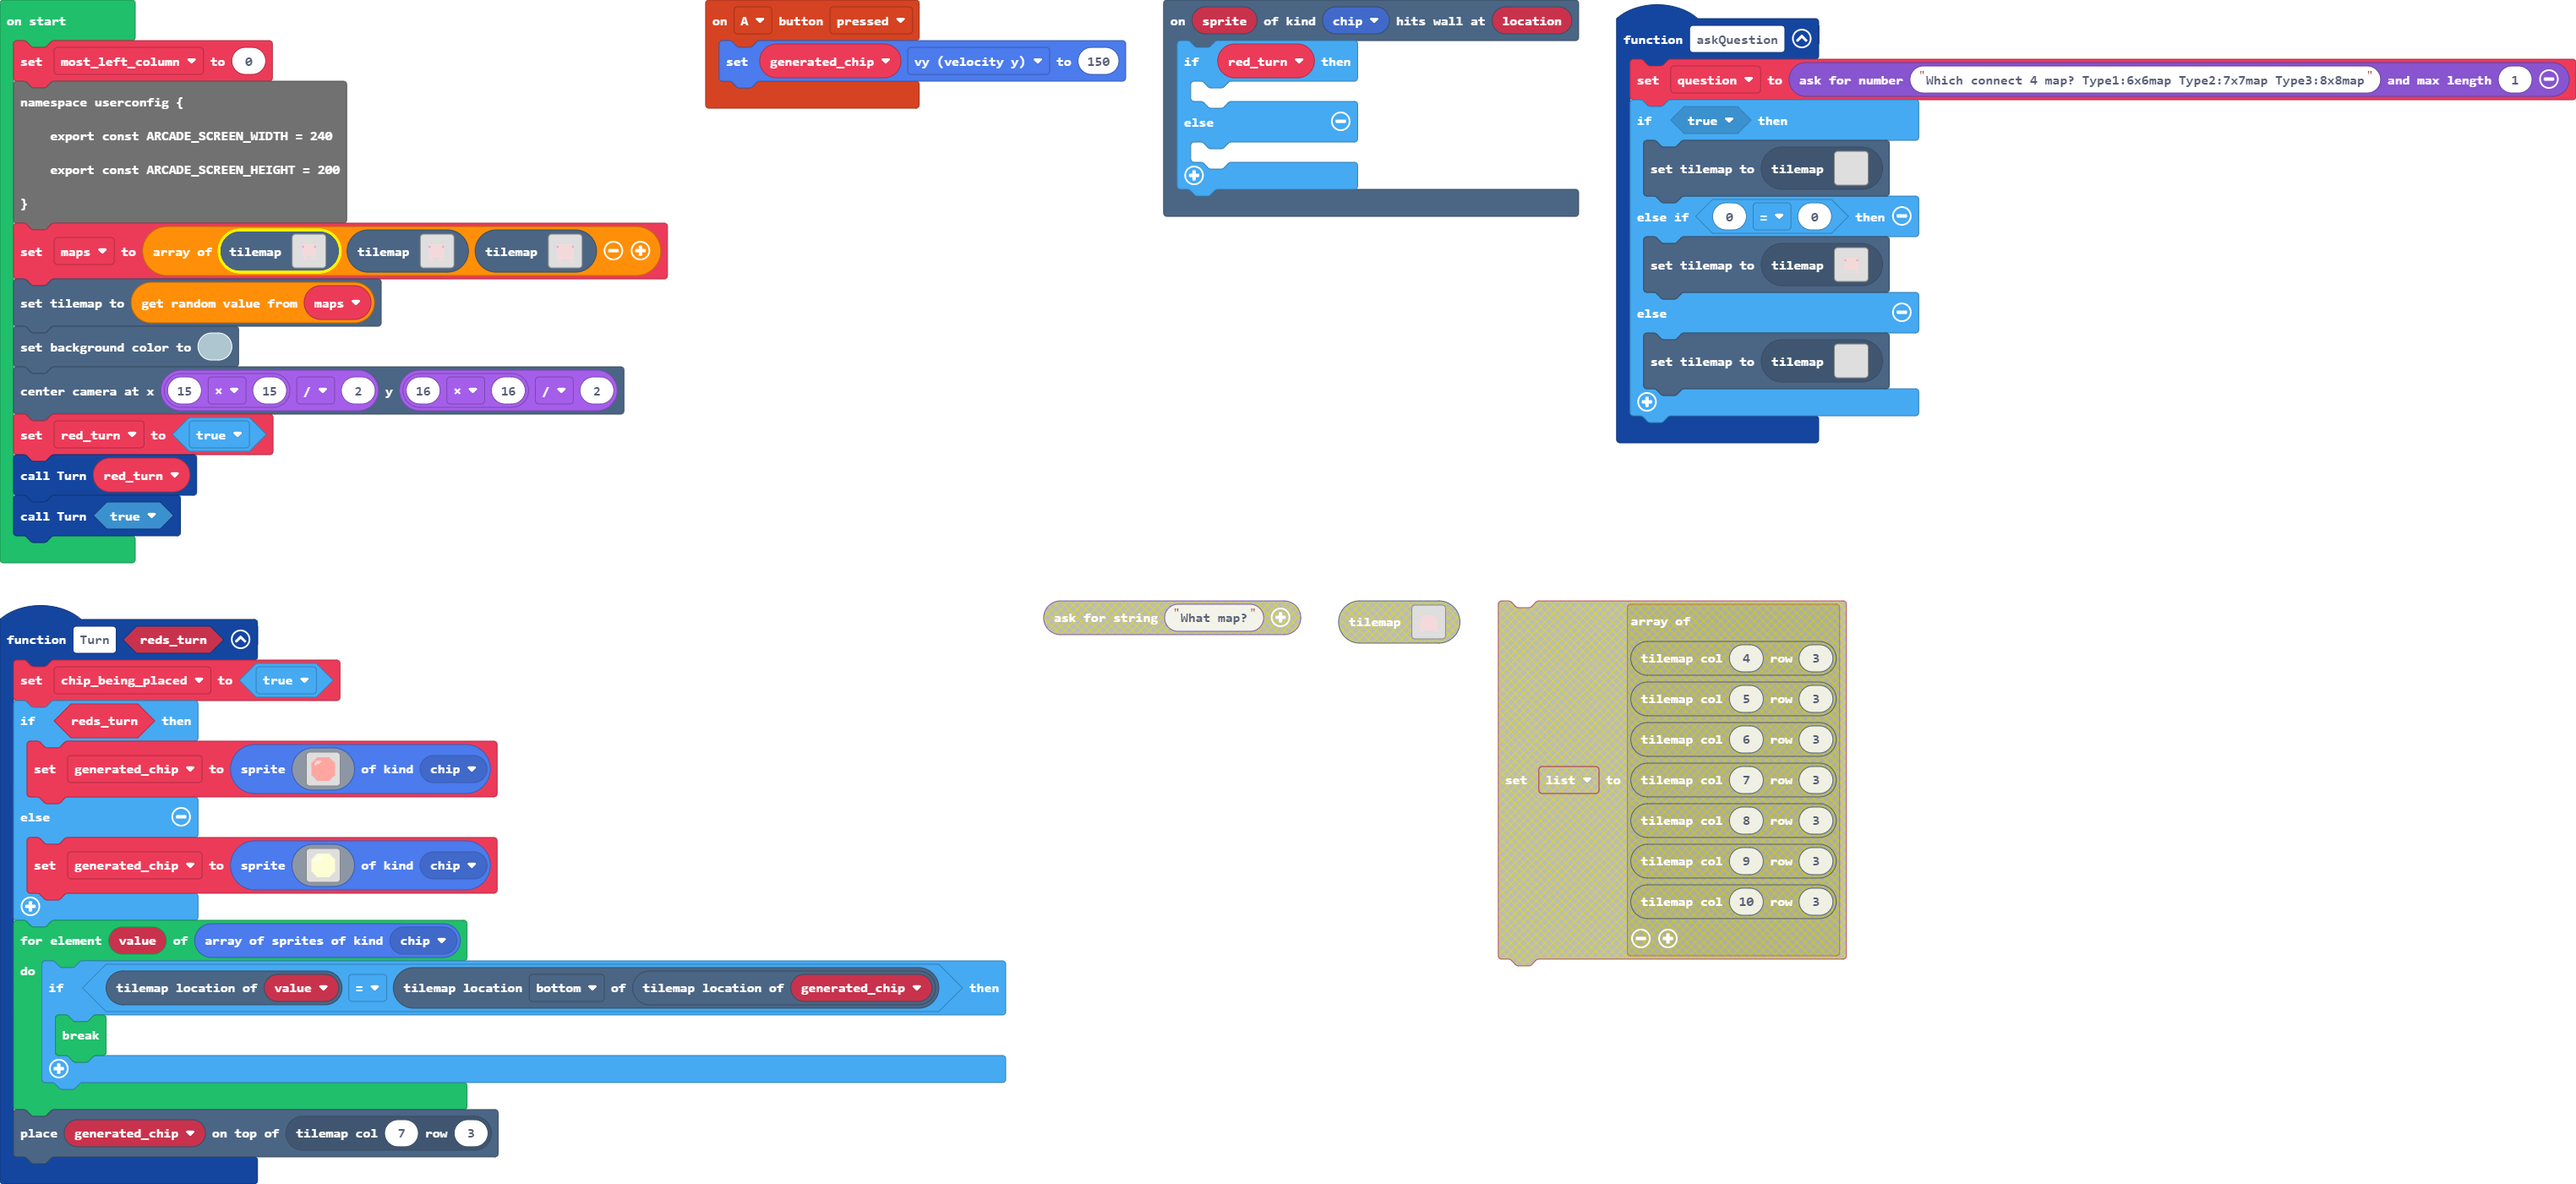
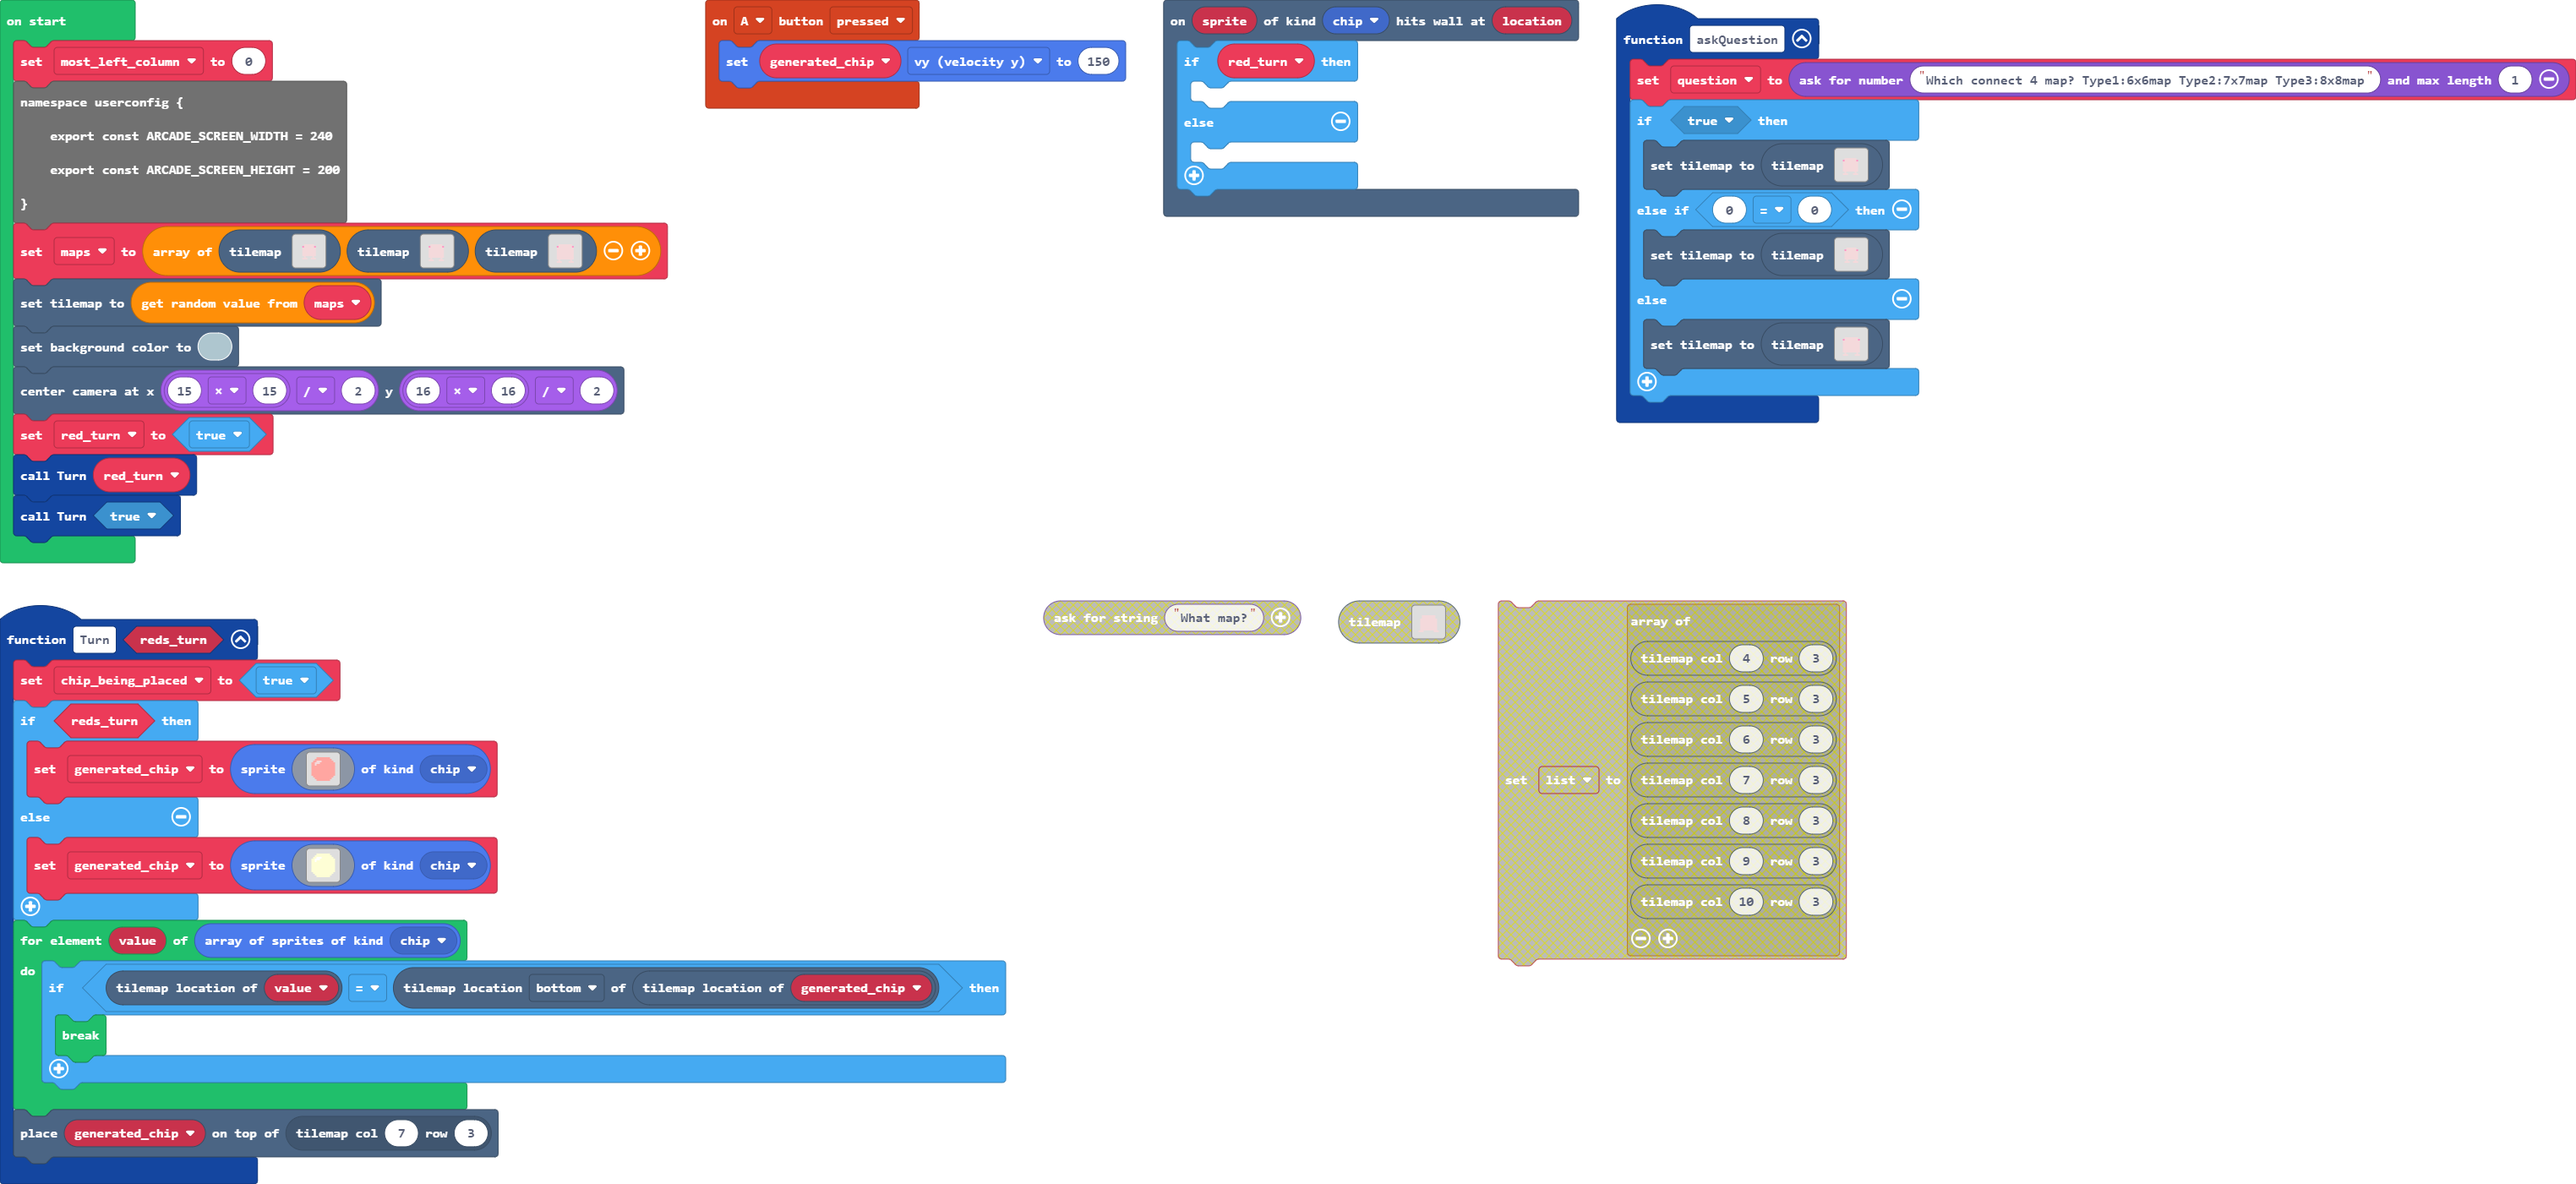
Update main.blocks, main.ts, tilemap.g.jres, tilemap.g.ts

Changed region(s): [[0.6234, 0.1228, 0.748, 0.399]]

diff --git a/tilemap.g.ts b/tilemap.g.ts
@@ -426,7 +426,45 @@ namespace myTiles {
 . . . . . . . . . . . . . . . . 
 . . . . . . . . . . . . . . . . 
 `, [myTiles.transparency16], TileScale.Sixteen);
-            case "level24":
+            case "6X6map":
+            case "level20":return tiles.createTilemap(hex`1000100000000000000000000000000000000000000000000000000000000000000000000000000000000000000000000000000000000000000000000000000000000000000000000001010101010100000000000000000003010101010101030000000000000000020101010101010200000000000000000201010101010102000000000000000002010101010101020000000000000000020101010101010200000000000000000202020202020202000000000000000000020000000002000000000000000000020202000002020200000000000000000000000000000000000000000000000000000000000000000000000000000000000000000000000000000000`, img`
+. . . . . . . . . . . . . . . . 
+. . . . . . . . . . . . . . . . 
+. . . . . . . . . . . . . . . . 
+. . . . . . . . . . . . . . . . 
+. . . . . . . . . . . . . . . . 
+. . . . . . . . . . . . . . . . 
+. . . . . . . . . . . . . . . . 
+. . . . . . . . . . . . . . . . 
+. . . . . . . . . . . . . . . . 
+. . . . . . . . . . . . . . . . 
+. . . . . 2 2 2 2 2 2 . . . . . 
+. . . . . . . . . . . . . . . . 
+. . . . . . . . . . . . . . . . 
+. . . . . . . . . . . . . . . . 
+. . . . . . . . . . . . . . . . 
+. . . . . . . . . . . . . . . . 
+`, [myTiles.transparency16,myTiles.tile7,myTiles.tile8,myTiles.tile11], TileScale.Sixteen);
+            case "7x7map":
+            case "level22":return tiles.createTilemap(hex`1000100000000000000000000000000000000000000000000000000000000000000000000000000000000000000000000000000000000000000000000000000000000000000000000101010101010100000000000000000301010101010101030000000000000002010101010101010200000000000000020101010101010102000000000000000201010101010101020000000000000002010101010101010200000000000000020101010101010102000000000000000202020202020202020000000000000000020000000000020000000000000000020202000000020202000000000000000000000000000000000000000000000000000000000000000000000000`, img`
+. . . . . . . . . . . . . . . . 
+. . . . . . . . . . . . . . . . 
+. . . . . . . . . . . . . . . . 
+. . . . . . . . . . . . . . . . 
+. . . . . . . . . . . . . . . . 
+. . . . . . . . . . . . . . . . 
+. . . . . . . . . . . . . . . . 
+. . . . . . . . . . . . . . . . 
+. . . . . . . . . . . . . . . . 
+. . . . . . . . . . . . . . . . 
+. . . . . . . . . . . . . . . . 
+. . . . 2 2 2 2 2 2 2 . . . . . 
+. . . . . . . . . . . . . . . . 
+. . . . . . . . . . . . . . . . 
+. . . . . . . . . . . . . . . . 
+. . . . . . . . . . . . . . . . 
+`, [myTiles.transparency16,myTiles.tile7,myTiles.tile8,myTiles.tile11], TileScale.Sixteen);
+            case "8x8map":
             case "level24":return tiles.createTilemap(hex`1000100000000000000000000000000000000000000000000000000000000000000000000000000000000000000000000000000000000000000000000000000000000000000000000101010101010101000000000000000301010101010101010300000000000002010101010101010102000000000000020101010101010101020000000000000201010101010101010200000000000002010101010101010102000000000000020101010101010101020000000000000201010101010101010200000000000002020202020202020202000000000000000200000000000002000000000000000202020000000002020200000000000000000000000000000000000000`, img`
 . . . . . . . . . . . . . . . . 
 . . . . . . . . . . . . . . . . 
@@ -440,13 +478,13 @@ namespace myTiles {
 . . . . . . . . . . . . . . . . 
 . . . . . . . . . . . . . . . . 
 . . . . . . . . . . . . . . . . 
-. . . . . . . . . . . . . . . . 
+. . . . 2 2 2 2 2 2 2 2 . . . . 
 . . . . . . . . . . . . . . . . 
 . . . . . . . . . . . . . . . . 
 . . . . . . . . . . . . . . . . 
 `, [myTiles.transparency16,myTiles.tile7,myTiles.tile8,myTiles.tile10], TileScale.Sixteen);
-            case "level22":
-            case "level22":return tiles.createTilemap(hex`1000100000000000000000000000000000000000000000000000000000000000000000000000000000000000000000000000000000000000000000000000000000000000000000000101010101010100000000000000000301010101010101030000000000000002010101010101010200000000000000020101010101010102000000000000000201010101010101020000000000000002010101010101010200000000000000020101010101010102000000000000000202020202020202020000000000000000020000000000020000000000000000020202000000020202000000000000000000000000000000000000000000000000000000000000000000000000`, img`
+            case "level25":
+            case "level25":return tiles.createTilemap(hex`1000100000000000000000000000000000000000000000000000000000000000000000000000000000000000000000000000000000000000000000000000000000000000000000000000000000000000000000000000000000000000000000000000000000000000000000000000000000000000000000000000000000000000000000000000000000000000000000000000000000000000000000000000000000000000000000000000000000000000000000000000000000000000000000000000000000000000000000000000000000000000000000000000000000000000000000000000000000000000000000000000000000000000000000000000000000000000`, img`
 . . . . . . . . . . . . . . . . 
 . . . . . . . . . . . . . . . . 
 . . . . . . . . . . . . . . . . 
@@ -463,9 +501,9 @@ namespace myTiles {
 . . . . . . . . . . . . . . . . 
 . . . . . . . . . . . . . . . . 
 . . . . . . . . . . . . . . . . 
-`, [myTiles.transparency16,myTiles.tile7,myTiles.tile8,myTiles.tile11], TileScale.Sixteen);
-            case "level20":
-            case "level20":return tiles.createTilemap(hex`1000100000000000000000000000000000000000000000000000000000000000000000000000000000000000000000000000000000000000000000000000000000000000000000000001010101010100000000000000000003010101010101030000000000000000020101010101010200000000000000000201010101010102000000000000000002010101010101020000000000000000020101010101010200000000000000000202020202020202000000000000000000020000000002000000000000000000020202000002020200000000000000000000000000000000000000000000000000000000000000000000000000000000000000000000000000000000`, img`
+`, [myTiles.transparency16], TileScale.Sixteen);
+            case "level26":
+            case "level26":return tiles.createTilemap(hex`1000100000000000000000000000000000000000000000000000000000000000000000000000000000000000000000000000000000000000000000000000000000000000000000000000000000000000000000000000000000000000000000000000000000000000000000000000000000000000000000000000000000000000000000000000000000000000000000000000000000000000000000000000000000000000000000000000000000000000000000000000000000000000000000000000000000000000000000000000000000000000000000000000000000000000000000000000000000000000000000000000000000000000000000000000000000000000`, img`
 . . . . . . . . . . . . . . . . 
 . . . . . . . . . . . . . . . . 
 . . . . . . . . . . . . . . . . 
@@ -482,7 +520,45 @@ namespace myTiles {
 . . . . . . . . . . . . . . . . 
 . . . . . . . . . . . . . . . . 
 . . . . . . . . . . . . . . . . 
-`, [myTiles.transparency16,myTiles.tile7,myTiles.tile8,myTiles.tile11], TileScale.Sixteen);
+`, [myTiles.transparency16], TileScale.Sixteen);
+            case "level27":
+            case "level27":return tiles.createTilemap(hex`1000100000000000000000000000000000000000000000000000000000000000000000000000000000000000000000000000000000000000000000000000000000000000000000000000000000000000000000000000000000000000000000000000000000000000000000000000000000000000000000000000000000000000000000000000000000000000000000000000000000000000000000000000000000000000000000000000000000000000000000000000000000000000000000000000000000000000000000000000000000000000000000000000000000000000000000000000000000000000000000000000000000000000000000000000000000000000`, img`
+. . . . . . . . . . . . . . . . 
+. . . . . . . . . . . . . . . . 
+. . . . . . . . . . . . . . . . 
+. . . . . . . . . . . . . . . . 
+. . . . . . . . . . . . . . . . 
+. . . . . . . . . . . . . . . . 
+. . . . . . . . . . . . . . . . 
+. . . . . . . . . . . . . . . . 
+. . . . . . . . . . . . . . . . 
+. . . . . . . . . . . . . . . . 
+. . . . . . . . . . . . . . . . 
+. . . . . . . . . . . . . . . . 
+. . . . . . . . . . . . . . . . 
+. . . . . . . . . . . . . . . . 
+. . . . . . . . . . . . . . . . 
+. . . . . . . . . . . . . . . . 
+`, [myTiles.transparency16], TileScale.Sixteen);
+            case "level28":
+            case "level28":return tiles.createTilemap(hex`1000100000000000000000000000000000000000000000000000000000000000000000000000000000000000000000000000000000000000000000000000000000000000000000000000000000000000000000000000000000000000000000000000000000000000000000000000000000000000000000000000000000000000000000000000000000000000000000000000000000000000000000000000000000000000000000000000000000000000000000000000000000000000000000000000000000000000000000000000000000000000000000000000000000000000000000000000000000000000000000000000000000000000000000000000000000000000`, img`
+. . . . . . . . . . . . . . . . 
+. . . . . . . . . . . . . . . . 
+. . . . . . . . . . . . . . . . 
+. . . . . . . . . . . . . . . . 
+. . . . . . . . . . . . . . . . 
+. . . . . . . . . . . . . . . . 
+. . . . . . . . . . . . . . . . 
+. . . . . . . . . . . . . . . . 
+. . . . . . . . . . . . . . . . 
+. . . . . . . . . . . . . . . . 
+. . . . . . . . . . . . . . . . 
+. . . . . . . . . . . . . . . . 
+. . . . . . . . . . . . . . . . 
+. . . . . . . . . . . . . . . . 
+. . . . . . . . . . . . . . . . 
+. . . . . . . . . . . . . . . . 
+`, [myTiles.transparency16], TileScale.Sixteen);
         }
         return null;
     })

diff --git a/main.ts b/main.ts
@@ -62,11 +62,11 @@ function Turn (reds_turn: boolean) {
 function askQuestion () {
     question = game.askForNumber("Which connect 4 map? Type1:6x6map Type2:7x7map Type3:8x8map", 1)
     if (true) {
-        tiles.setCurrentTilemap(tilemap`level10`)
+        tiles.setCurrentTilemap(tilemap`7x7map`)
     } else if (0 == 0) {
-        tiles.setCurrentTilemap(tilemap`6x6 connect 4`)
+        tiles.setCurrentTilemap(tilemap`6X6map`)
     } else {
-        tiles.setCurrentTilemap(tilemap`level12`)
+        tiles.setCurrentTilemap(tilemap`8x8map`)
     }
 }
 let question = 0
@@ -78,7 +78,7 @@ namespace userconfig {
     export const ARCADE_SCREEN_WIDTH = 240
     export const ARCADE_SCREEN_HEIGHT = 200
 }
-let maps = [tilemap`level20`, tilemap`level22`, tilemap`level24`]
+let maps = [tilemap`6X6map`, tilemap`7x7map`, tilemap`8x8map`]
 tiles.setCurrentTilemap(maps._pickRandom())
 scene.setBackgroundColor(4)
 scene.centerCameraAt(15 * 15 / 2, 16 * 16 / 2)
